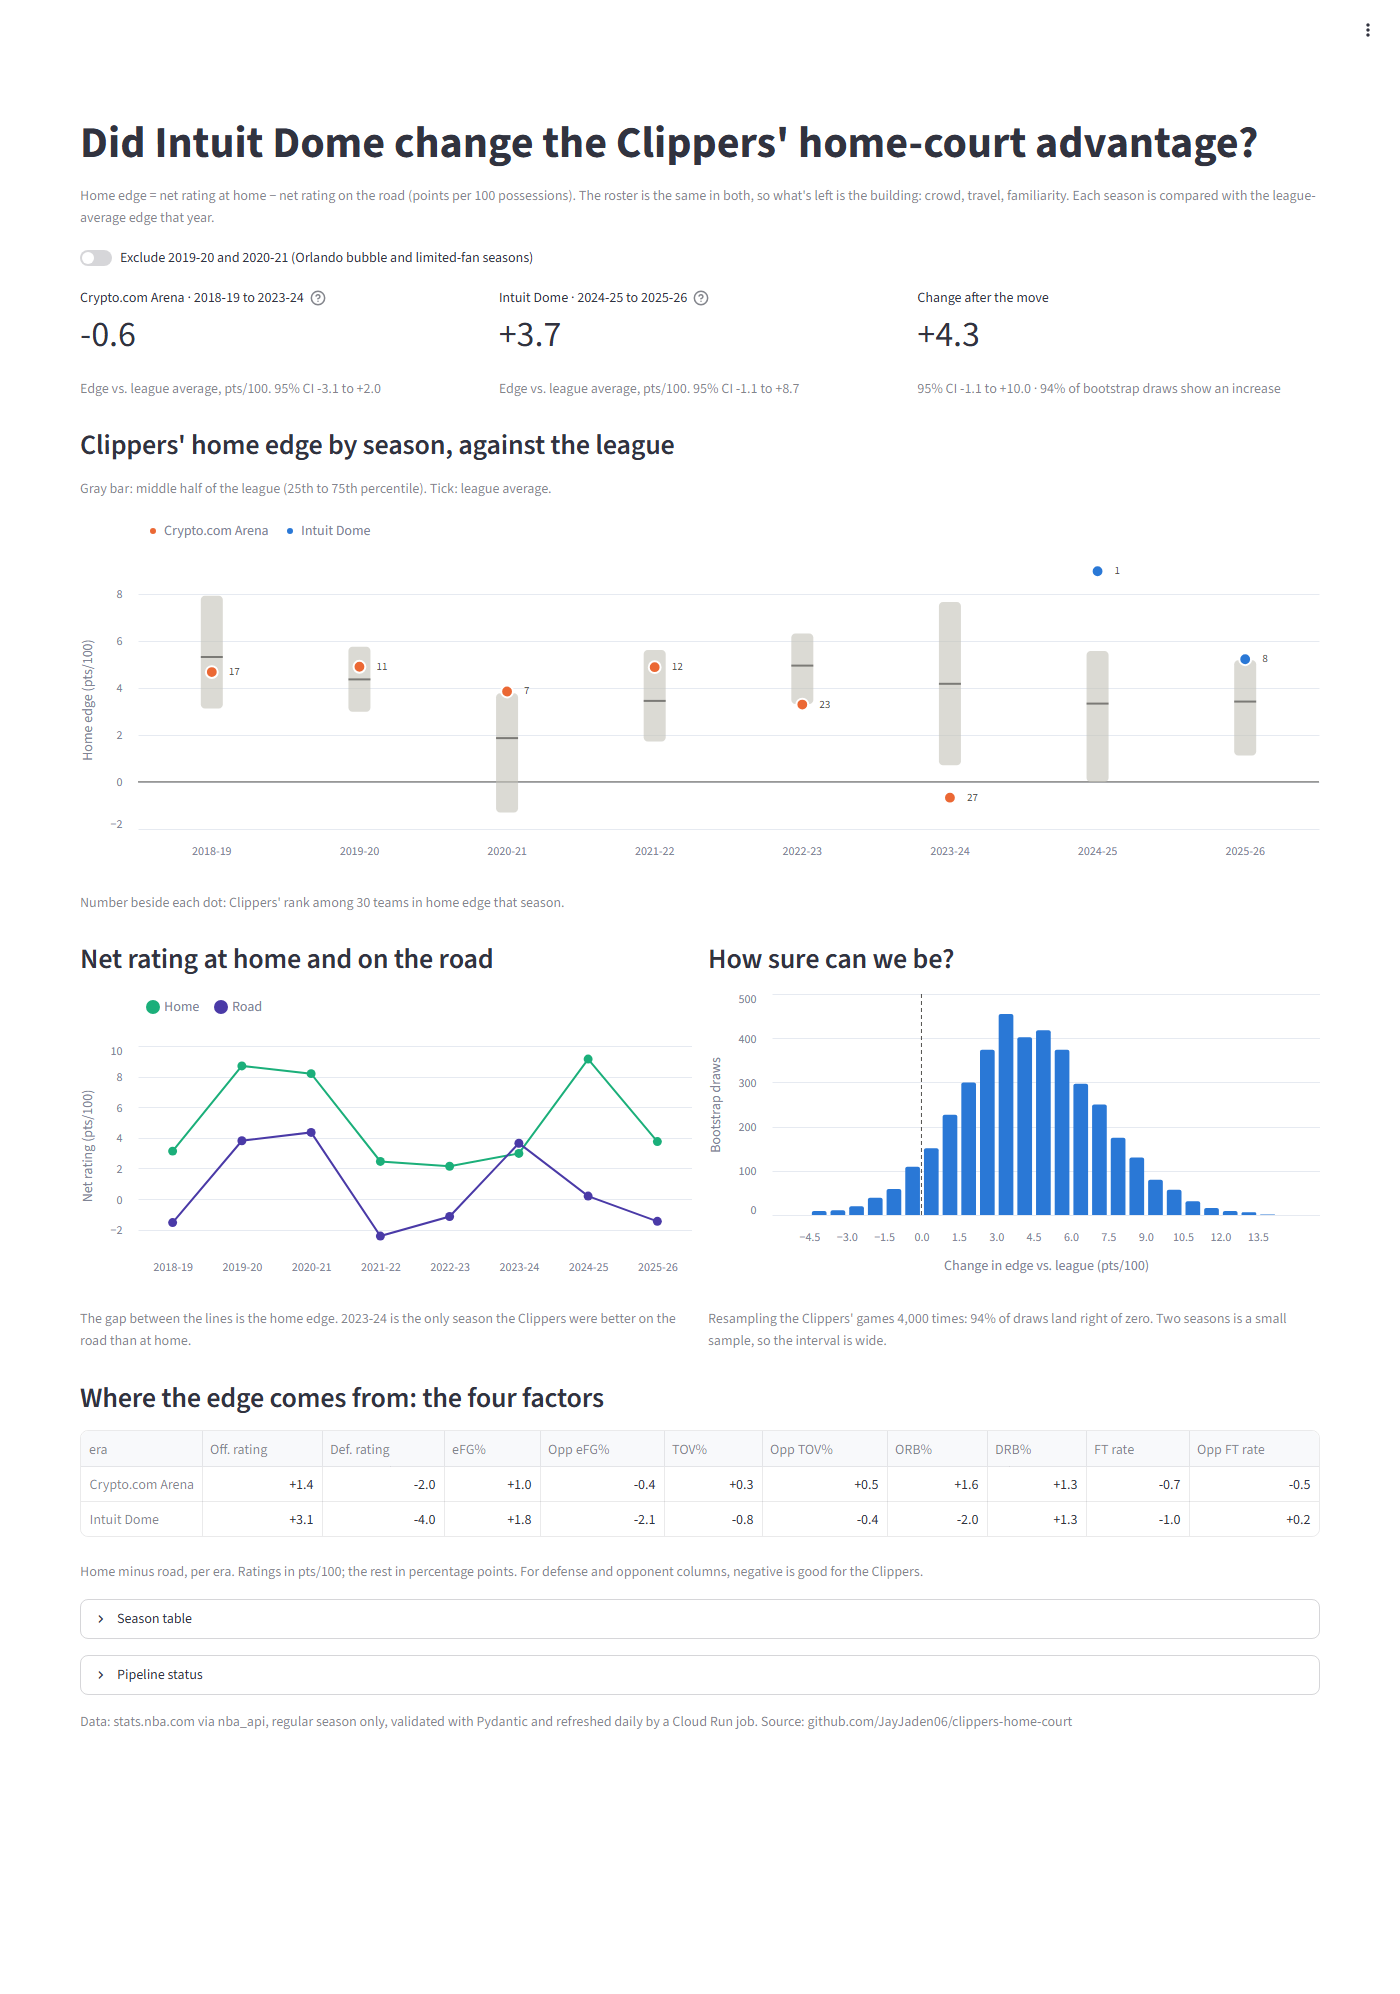
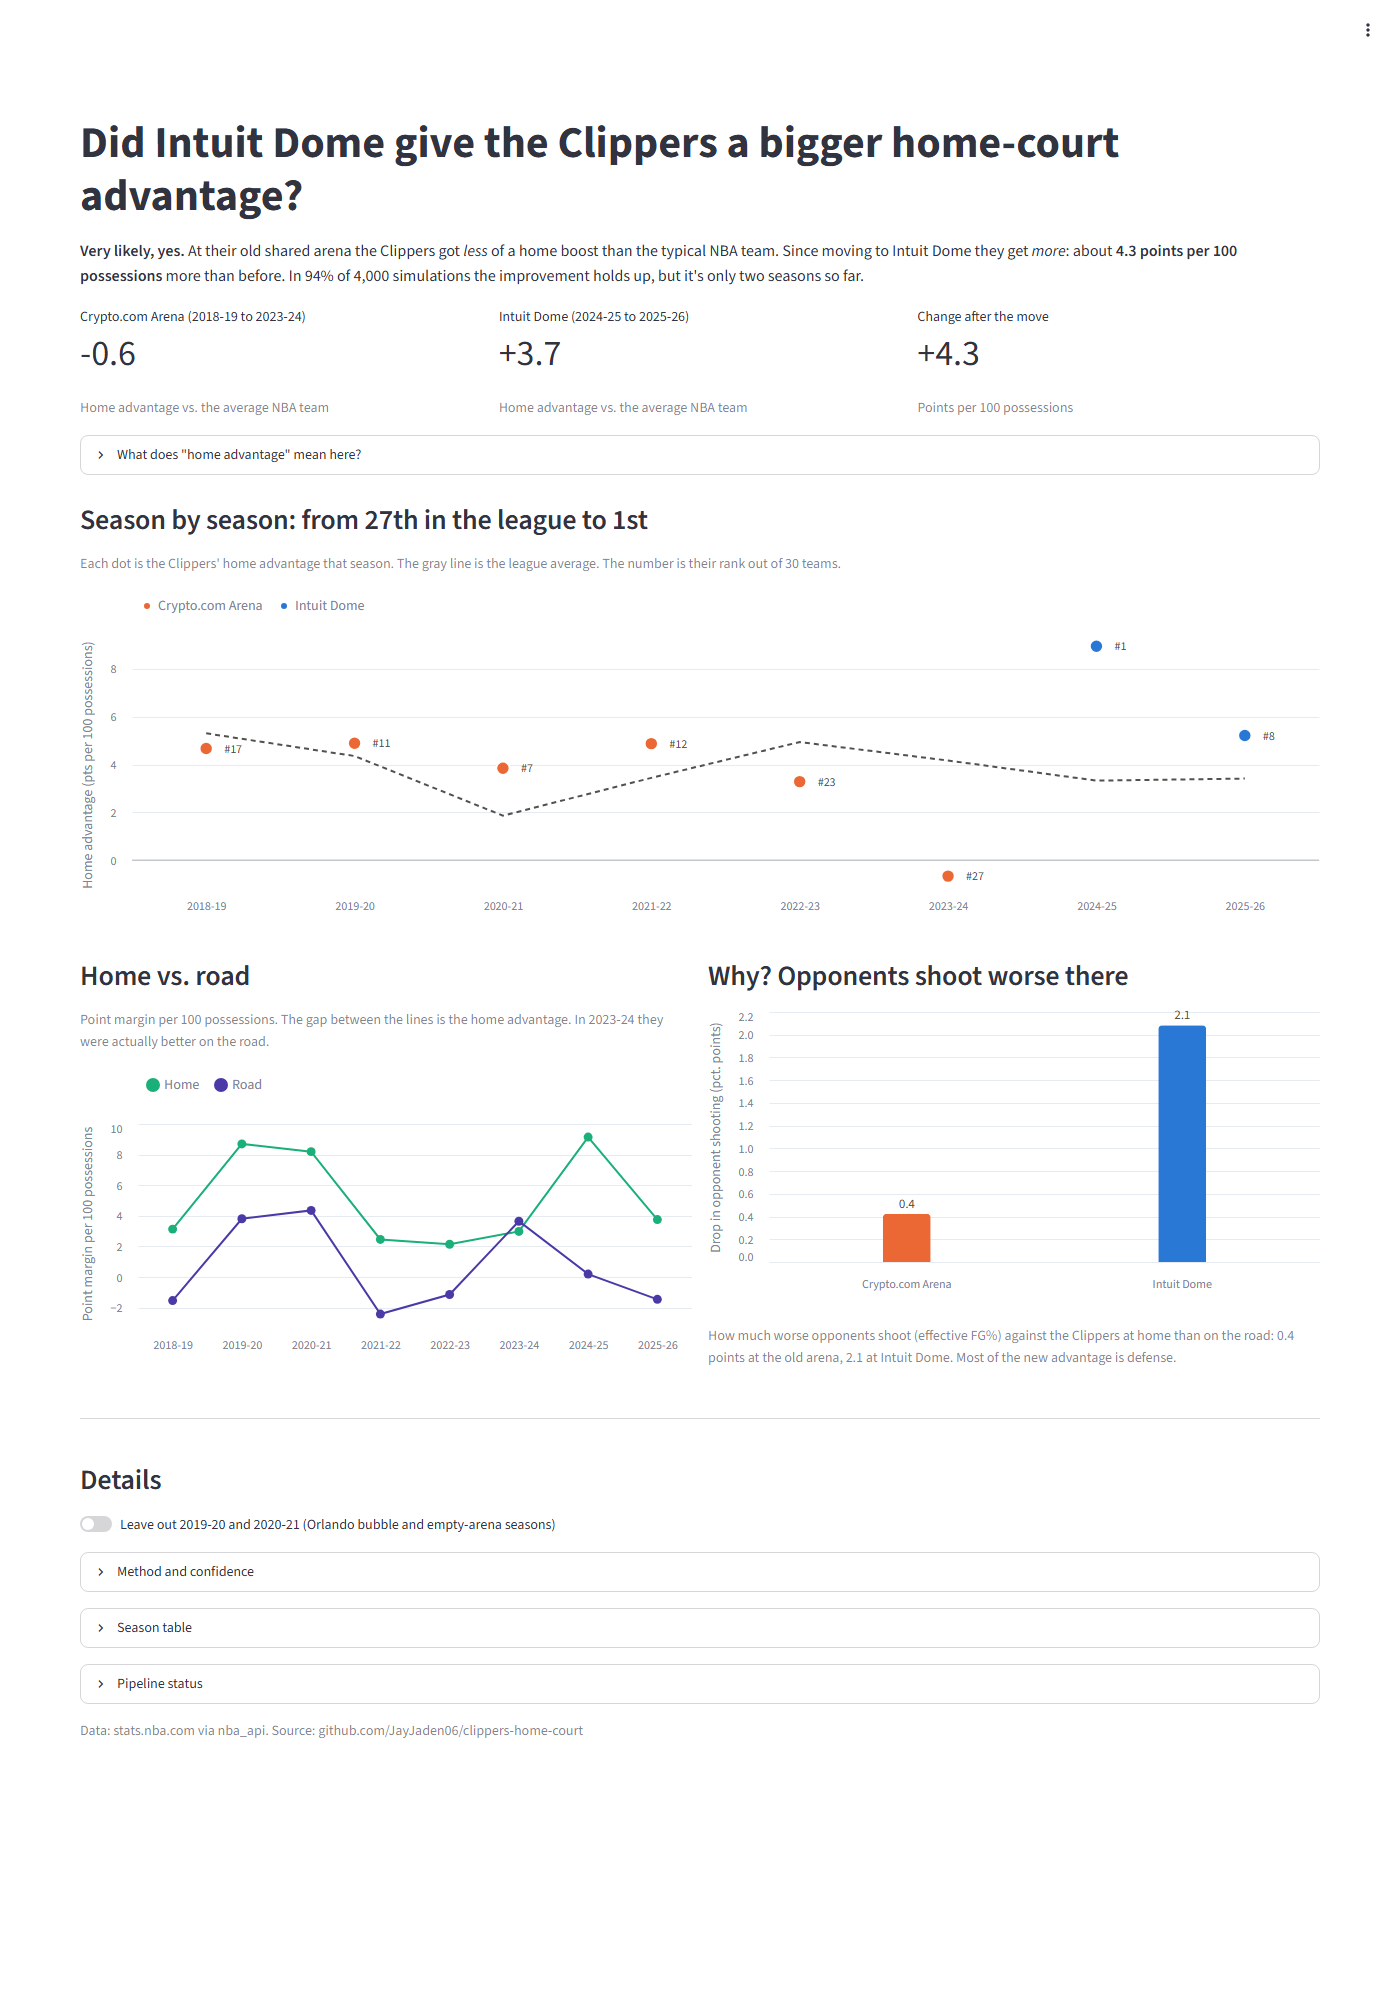
Simplify the dashboard into one plain-language story
Lead with the answer, keep two charts (season-by-season rank and home vs.
road), replace the four-factors table with the one finding that matters
(opponents shoot worse at Intuit Dome), fold the bootstrap histogram into
a sentence, and move method, toggle, and raw tables into a Details section.

diff --git a/dashboard/app.py b/dashboard/app.py
@@ -20,19 +20,19 @@ LIMITED_FAN_SEASONS = ("2019-20", "2020-21")
 
 st.set_page_config(page_title="Clippers Home Court", page_icon="🏀", layout="wide")
 
-# Validated categorical slots (light, dark); see the README's design notes.
+# Validated categorical slots (light, dark).
 DARK = getattr(getattr(st.context, "theme", None), "type", "light") == "dark"
 PALETTE = {
     SHARED_ARENA: "#d95926" if DARK else "#eb6834",
     INTUIT_DOME: "#3987e5" if DARK else "#2a78d6",
     "Home": "#199e70" if DARK else "#1baf7a",
     "Road": "#9085e9" if DARK else "#4a3aa7",
-    "league": "#5f5e5a" if DARK else "#c3c2b7",
     "ink": "#c3c2b7" if DARK else "#52514e",
 }
 ARENA_SCALE = alt.Scale(
     domain=[SHARED_ARENA, INTUIT_DOME], range=[PALETTE[SHARED_ARENA], PALETTE[INTUIT_DOME]]
 )
+SEASON_AXIS = alt.X("season:O", title=None, axis=alt.Axis(labelAngle=0))
 
 
 @st.cache_data(ttl=3600, show_spinner="Loading games…")
@@ -48,7 +48,7 @@ def load() -> tuple[pd.DataFrame, dict]:
     return df, report
 
 
-@st.cache_data(show_spinner="Bootstrapping…")
+@st.cache_data(show_spinner="Crunching…")
 def compare(df: pd.DataFrame, exclude: tuple[str, ...]) -> dict:
     return analysis.era_comparison(df, exclude_seasons=exclude, n=4000)
 
@@ -58,98 +58,99 @@ if df.empty:
     st.error("No data found. Run `python -m clippers_home_court.job` first.")
     st.stop()
 
-# ---- Header & controls -----------------------------------------------------------------------
-st.title("Did Intuit Dome change the Clippers' home-court advantage?")
-st.caption(
-    "Home edge = net rating at home − net rating on the road (points per 100 possessions). "
-    "The roster is the same in both, so what's left is the building: crowd, travel, "
-    "familiarity. Each season is compared with the league-average edge that year."
-)
-exclude_limited = st.toggle(
-    "Exclude 2019-20 and 2020-21 (Orlando bubble and limited-fan seasons)", value=False
-)
-exclude = LIMITED_FAN_SEASONS if exclude_limited else ()
-
+# The toggle lives in the Details section at the bottom; read its state up here.
+exclude = LIMITED_FAN_SEASONS if st.session_state.get("exclude_limited") else ()
 result = compare(df, exclude)
 eras, change = result["eras"], result["change"]
-
-# ---- Headline numbers ------------------------------------------------------------------------
-c1, c2, c3 = st.columns(3)
-for col, era in ((c1, SHARED_ARENA), (c2, INTUIT_DOME)):
-    e = eras[era]
-    col.metric(
-        f"{era} · {e['seasons'][0]} to {e['seasons'][-1]}",
-        f"{e['excess']:+.1f}",
-        help=f"Clippers' home edge {e['edge']:+.1f} vs. league {e['league_edge']:+.1f}, "
-        f"pooled over {e['home_games']} home games. 95% CI {e['ci'][0]:+.1f} to {e['ci'][1]:+.1f}.",
-    )
-    col.caption(f"Edge vs. league average, pts/100. 95% CI {e['ci'][0]:+.1f} to {e['ci'][1]:+.1f}")
-c3.metric("Change after the move", f"{change['delta']:+.1f}")
-c3.caption(
-    f"95% CI {change['ci'][0]:+.1f} to {change['ci'][1]:+.1f} · "
-    f"{change['p_increase']:.0%} of bootstrap draws show an increase"
-)
-
-# ---- Season-by-season ------------------------------------------------------------------------
+old, new = eras[SHARED_ARENA], eras[INTUIT_DOME]
 data = df[~df["season"].isin(exclude)]
 ctx = analysis.league_context(analysis.home_edges(data))
-ctx["Clippers home edge"] = ctx["edge"]
 
-st.subheader("Clippers' home edge by season, against the league")
-st.caption("Gray bar: middle half of the league (25th to 75th percentile). Tick: league average.")
-base = alt.Chart(ctx).encode(x=alt.X("season:O", title=None, axis=alt.Axis(labelAngle=0)))
+# ---- The answer ------------------------------------------------------------------------------
+st.title("Did Intuit Dome give the Clippers a bigger home-court advantage?")
+verdict = "Very likely, yes." if change["p_increase"] >= 0.9 else "Possibly."
+st.markdown(
+    f"**{verdict}** At their old shared arena the Clippers got *less* of a home boost "
+    f"than the typical NBA team. Since moving to Intuit Dome they get *more*: about "
+    f"**{change['delta']:.1f} points per 100 possessions** more than before. "
+    f"In {change['p_increase']:.0%} of 4,000 simulations the improvement holds up, "
+    f"but it's only two seasons so far."
+)
+
+c1, c2, c3 = st.columns(3)
+c1.metric(
+    f"Crypto.com Arena ({old['seasons'][0]} to {old['seasons'][-1]})", f"{old['excess']:+.1f}"
+)
+c1.caption("Home advantage vs. the average NBA team")
+c2.metric(f"Intuit Dome ({new['seasons'][0]} to {new['seasons'][-1]})", f"{new['excess']:+.1f}")
+c2.caption("Home advantage vs. the average NBA team")
+c3.metric("Change after the move", f"{change['delta']:+.1f}")
+c3.caption("Points per 100 possessions")
+
+with st.expander('What does "home advantage" mean here?'):
+    st.markdown(
+        "**Home advantage** = how much better a team does at home than on the road, measured "
+        "by point margin per 100 possessions. It's the same players in both, so the difference "
+        "comes from the building: the crowd, not traveling, sleeping in your own bed.\n\n"
+        "Every team plays better at home. The league average is about +3 to +5 points per "
+        "100 possessions. The numbers above show how far the Clippers sit **above or below** "
+        "that average."
+    )
+
+# ---- Chart 1: season by season ---------------------------------------------------------------
+st.subheader("Season by season: from 27th in the league to 1st")
+st.caption(
+    "Each dot is the Clippers' home advantage that season. The gray line is the league average. "
+    "The number is their rank out of 30 teams."
+)
+ctx["rank_label"] = "#" + ctx["rank"].astype(str)
+base = alt.Chart(ctx).encode(x=SEASON_AXIS)
 tooltip = [
     alt.Tooltip("season:N", title="Season"),
     alt.Tooltip("arena:N", title="Home arena"),
-    alt.Tooltip("edge:Q", title="LAC home edge", format="+.1f"),
-    alt.Tooltip("home_net:Q", title="LAC home net rtg", format="+.1f"),
-    alt.Tooltip("away_net:Q", title="LAC road net rtg", format="+.1f"),
-    alt.Tooltip("league_mean:Q", title="League avg edge", format="+.1f"),
+    alt.Tooltip("edge:Q", title="Clippers home advantage", format="+.1f"),
+    alt.Tooltip("league_mean:Q", title="League average", format="+.1f"),
     alt.Tooltip("rank:Q", title="Rank of 30"),
 ]
-iqr = base.mark_bar(size=22, cornerRadius=4, color=PALETTE["league"], opacity=0.6).encode(
-    y=alt.Y("league_p25:Q", title="Home edge (pts/100)"), y2="league_p75:Q", tooltip=tooltip
+league = base.mark_line(color=PALETTE["ink"], strokeWidth=2, strokeDash=[5, 4]).encode(
+    y=alt.Y("league_mean:Q", title="Home advantage (pts per 100 possessions)"), tooltip=tooltip
 )
-mean = base.mark_tick(thickness=2, size=22, color=PALETTE["ink"]).encode(
-    y="league_mean:Q", tooltip=tooltip
-)
-dots = base.mark_circle(size=140, opacity=1, stroke="white", strokeWidth=2).encode(
+dots = base.mark_circle(size=180, opacity=1, stroke="white", strokeWidth=2).encode(
     y="edge:Q",
     color=alt.Color("arena:N", scale=ARENA_SCALE, legend=alt.Legend(title=None, orient="top")),
     tooltip=tooltip,
 )
-rank_labels = base.mark_text(dx=17, align="left", fontSize=11, color=PALETTE["ink"]).encode(
-    y="edge:Q", text=alt.Text("rank:Q", format="d")
+ranks = base.mark_text(dx=18, align="left", fontSize=12, color=PALETTE["ink"]).encode(
+    y="edge:Q", text="rank_label:N"
 )
-zero = (
-    alt.Chart(pd.DataFrame({"y": [0]}))
-    .mark_rule(color=PALETTE["ink"], strokeWidth=1)
-    .encode(y="y:Q")
+zero = alt.Chart(pd.DataFrame({"y": [0]})).mark_rule(color=PALETTE["ink"], opacity=0.4)
+st.altair_chart(
+    (zero.encode(y="y:Q") + league + dots + ranks).properties(height=340), width="stretch"
 )
-st.altair_chart((zero + iqr + mean + dots + rank_labels).properties(height=360), width="stretch")
-st.caption("Number beside each dot: Clippers' rank among 30 teams in home edge that season.")
 
 left, right = st.columns(2)
 
+# ---- Chart 2: home vs road -------------------------------------------------------------------
 with left:
-    st.subheader("Net rating at home and on the road")
-    long = ctx.melt(
-        id_vars=["season", "arena"], value_vars=["home_net", "away_net"], value_name="net"
+    st.subheader("Home vs. road")
+    st.caption(
+        "Point margin per 100 possessions. The gap between the lines is the home advantage. "
+        "In 2023-24 they were actually better on the road."
     )
+    long = ctx.melt(id_vars=["season"], value_vars=["home_net", "away_net"], value_name="net")
     long["split"] = long["variable"].map({"home_net": "Home", "away_net": "Road"})
-    color = alt.Color(
-        "split:N",
-        scale=alt.Scale(domain=["Home", "Road"], range=[PALETTE["Home"], PALETTE["Road"]]),
-        legend=alt.Legend(title=None, orient="top"),
-    )
     lines = alt.Chart(long).encode(
-        x=alt.X("season:O", title=None, axis=alt.Axis(labelAngle=0)),
-        y=alt.Y("net:Q", title="Net rating (pts/100)"),
-        color=color,
+        x=SEASON_AXIS,
+        y=alt.Y("net:Q", title="Point margin per 100 possessions"),
+        color=alt.Color(
+            "split:N",
+            scale=alt.Scale(domain=["Home", "Road"], range=[PALETTE["Home"], PALETTE["Road"]]),
+            legend=alt.Legend(title=None, orient="top"),
+        ),
         tooltip=[
             alt.Tooltip("season:N", title="Season"),
-            alt.Tooltip("split:N", title="Split"),
-            alt.Tooltip("net:Q", title="Net rating", format="+.1f"),
+            alt.Tooltip("split:N", title="Where"),
+            alt.Tooltip("net:Q", title="Point margin / 100", format="+.1f"),
         ],
     )
     st.altair_chart(
@@ -158,75 +159,75 @@ with left:
         ),
         width="stretch",
     )
-    st.caption(
-        "The gap between the lines is the home edge. 2023-24 is the only season "
-        "the Clippers were better on the road than at home."
-    )
 
+# ---- Why: defense ----------------------------------------------------------------------------
 with right:
-    st.subheader("How sure can we be?")
-    hist = pd.DataFrame({"delta": change["draws"]})
+    st.subheader("Why? Opponents shoot worse there")
+    lac = analysis.with_era(data[(data["team"] == LAC) & (data["location"] != "neutral")])
+    split = analysis.summarize(lac, ["era", "location"]).set_index(["era", "location"])
+    drop = split.xs("away", level="location") - split.xs("home", level="location")
+    why = pd.DataFrame(
+        {
+            "arena": [SHARED_ARENA, INTUIT_DOME],
+            "drop": [100 * drop.loc[a, "opp_efg"] for a in (SHARED_ARENA, INTUIT_DOME)],
+        }
+    )
     bars = (
-        alt.Chart(hist)
-        .mark_bar(color=PALETTE[INTUIT_DOME], cornerRadiusTopLeft=2, cornerRadiusTopRight=2)
+        alt.Chart(why)
+        .mark_bar(size=48, cornerRadiusTopLeft=4, cornerRadiusTopRight=4)
         .encode(
-            x=alt.X("delta:Q", bin=alt.Bin(step=0.75), title="Change in edge vs. league (pts/100)"),
-            y=alt.Y("count():Q", title="Bootstrap draws"),
-            tooltip=[alt.Tooltip("delta:Q", bin=alt.Bin(step=0.75), title="Change"), "count():Q"],
+            x=alt.X("arena:N", title=None, sort=[SHARED_ARENA, INTUIT_DOME],
+                    axis=alt.Axis(labelAngle=0)),
+            y=alt.Y("drop:Q", title="Drop in opponent shooting (pct. points)"),
+            color=alt.Color("arena:N", scale=ARENA_SCALE, legend=None),
+            tooltip=[
+                alt.Tooltip("arena:N", title="Arena"),
+                alt.Tooltip("drop:Q", title="Opponent shooting drop", format=".1f"),
+            ],
         )
+    )  # fmt: skip
+    labels = bars.mark_text(dy=-10, fontSize=13).encode(
+        text=alt.Text("drop:Q", format=".1f"), color=alt.value(PALETTE["ink"])
     )
-    zero_v = (
-        alt.Chart(pd.DataFrame({"x": [0]}))
-        .mark_rule(color=PALETTE["ink"], strokeDash=[4, 3])
-        .encode(x="x:Q")
-    )
-    st.altair_chart((bars + zero_v).properties(height=300), width="stretch")
+    st.altair_chart((bars + labels).properties(height=300), width="stretch")
     st.caption(
-        f"Resampling the Clippers' games 4,000 times: {change['p_increase']:.0%} of draws "
-        "land right of zero. Two seasons is a small sample, so the interval is wide."
+        "How much worse opponents shoot (effective FG%) against the Clippers at home than "
+        f"on the road: {why['drop'].iloc[0]:.1f} points at the old arena, "
+        f"{why['drop'].iloc[1]:.1f} at Intuit Dome. Most of the new advantage is defense."
     )
 
-# ---- Where the edge comes from ---------------------------------------------------------------
-st.subheader("Where the edge comes from: the four factors")
-lac = analysis.with_era(data[(data["team"] == LAC) & (data["location"] != "neutral")])
-ff = analysis.summarize(lac, ["era", "location"]).set_index(["era", "location"])
-cols = {
-    "ortg": "Off. rating",
-    "drtg": "Def. rating",
-    "efg": "eFG%",
-    "opp_efg": "Opp eFG%",
-    "tov_pct": "TOV%",
-    "opp_tov_pct": "Opp TOV%",
-    "orb_pct": "ORB%",
-    "drb_pct": "DRB%",
-    "ft_rate": "FT rate",
-    "opp_ft_rate": "Opp FT rate",
-}
-pct = [c for c in cols if c not in ("ortg", "drtg")]
-edge = (ff.xs("home", level="location") - ff.xs("away", level="location"))[list(cols)]
-edge = edge.reindex([SHARED_ARENA, INTUIT_DOME])
-shown = edge.copy()
-shown[pct] = shown[pct] * 100
-st.dataframe(
-    shown.rename(columns=cols).style.format("{:+.1f}"),
-    width="stretch",
-)
-st.caption(
-    "Home minus road, per era. Ratings in pts/100; the rest in percentage points. "
-    "For defense and opponent columns, negative is good for the Clippers."
+# ---- Details ---------------------------------------------------------------------------------
+st.divider()
+st.subheader("Details")
+st.toggle(
+    "Leave out 2019-20 and 2020-21 (Orlando bubble and empty-arena seasons)",
+    key="exclude_limited",
 )
 
-# ---- Data & pipeline -------------------------------------------------------------------------
+with st.expander("Method and confidence"):
+    lo, hi = change["ci"]
+    st.markdown(
+        f"- **Data:** every regular-season NBA game since 2018-19 ({len(df) // 2:,} games), "
+        "pulled from stats.nba.com and checked with Pydantic before it's stored. Games at "
+        "neutral sites (bubble, Paris, Mexico City, NBA Cup in Vegas) are left out.\n"
+        "- **Home advantage** = net rating at home − net rating on the road, compared with "
+        "the league average for the same season.\n"
+        f"- **Confidence:** I resampled the Clippers' games 4,000 times. The change came out "
+        f"positive {change['p_increase']:.0%} of the time. The 95% range is {lo:+.1f} to "
+        f"{hi:+.1f}, which still touches zero, so the result isn't conclusive yet. "
+        "It should firm up as the 2026-27 season adds games.\n"
+        "- **Not controlled for:** roster changes, rest, schedule."
+    )
+
 with st.expander("Season table"):
     st.dataframe(
-        ctx[["season", "arena", "edge", "home_net", "away_net", "league_mean", "excess", "rank"]]
+        ctx[["season", "arena", "home_net", "away_net", "edge", "league_mean", "rank"]]
         .rename(
             columns={
-                "edge": "LAC edge",
-                "home_net": "Home net",
-                "away_net": "Road net",
-                "league_mean": "League avg edge",
-                "excess": "Edge vs. league",
+                "home_net": "Home margin",
+                "away_net": "Road margin",
+                "edge": "Home advantage",
+                "league_mean": "League avg",
                 "rank": "Rank",
             }
         )
@@ -241,12 +242,8 @@ with st.expander("Pipeline status"):
     st.write(
         f"Last ingest finished **{report.get('finished_at', 'unknown')}** · "
         f"{len(df):,} team-game rows across {df['season'].nunique()} seasons · "
-        f"{rejected} games rejected by validation · "
-        f"{int((df['location'] == 'neutral').sum() / 2)} neutral-site games excluded"
+        f"{rejected} games rejected by validation"
     )
     st.json(report, expanded=False)
 
-st.caption(
-    "Data: stats.nba.com via nba_api, regular season only, validated with Pydantic and "
-    "refreshed daily by a Cloud Run job. Source: github.com/JayJaden06/clippers-home-court"
-)
+st.caption("Data: stats.nba.com via nba_api. Source: github.com/JayJaden06/clippers-home-court")
